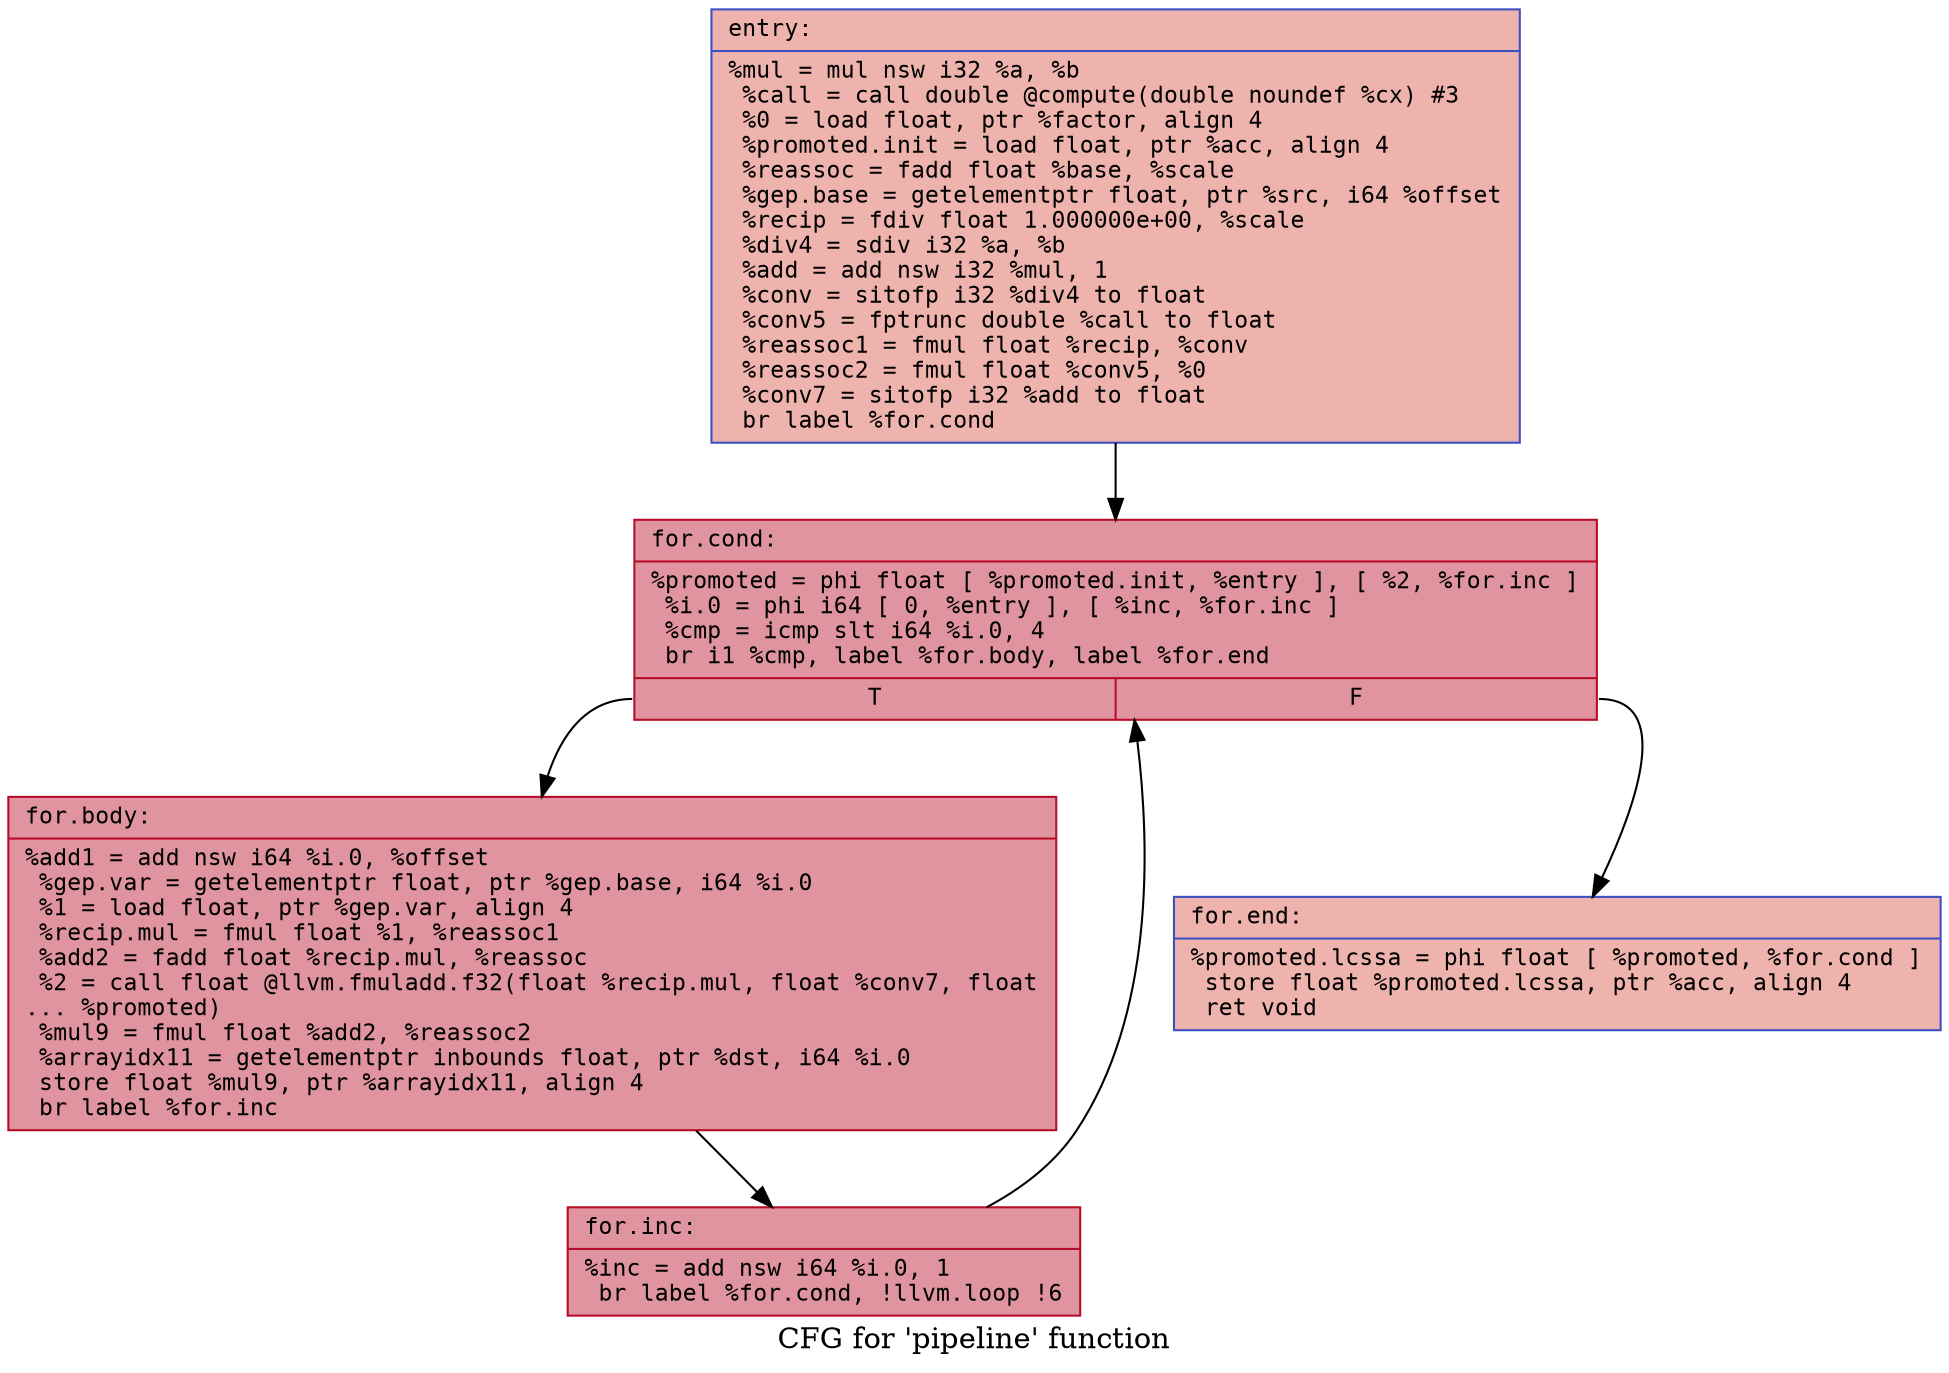
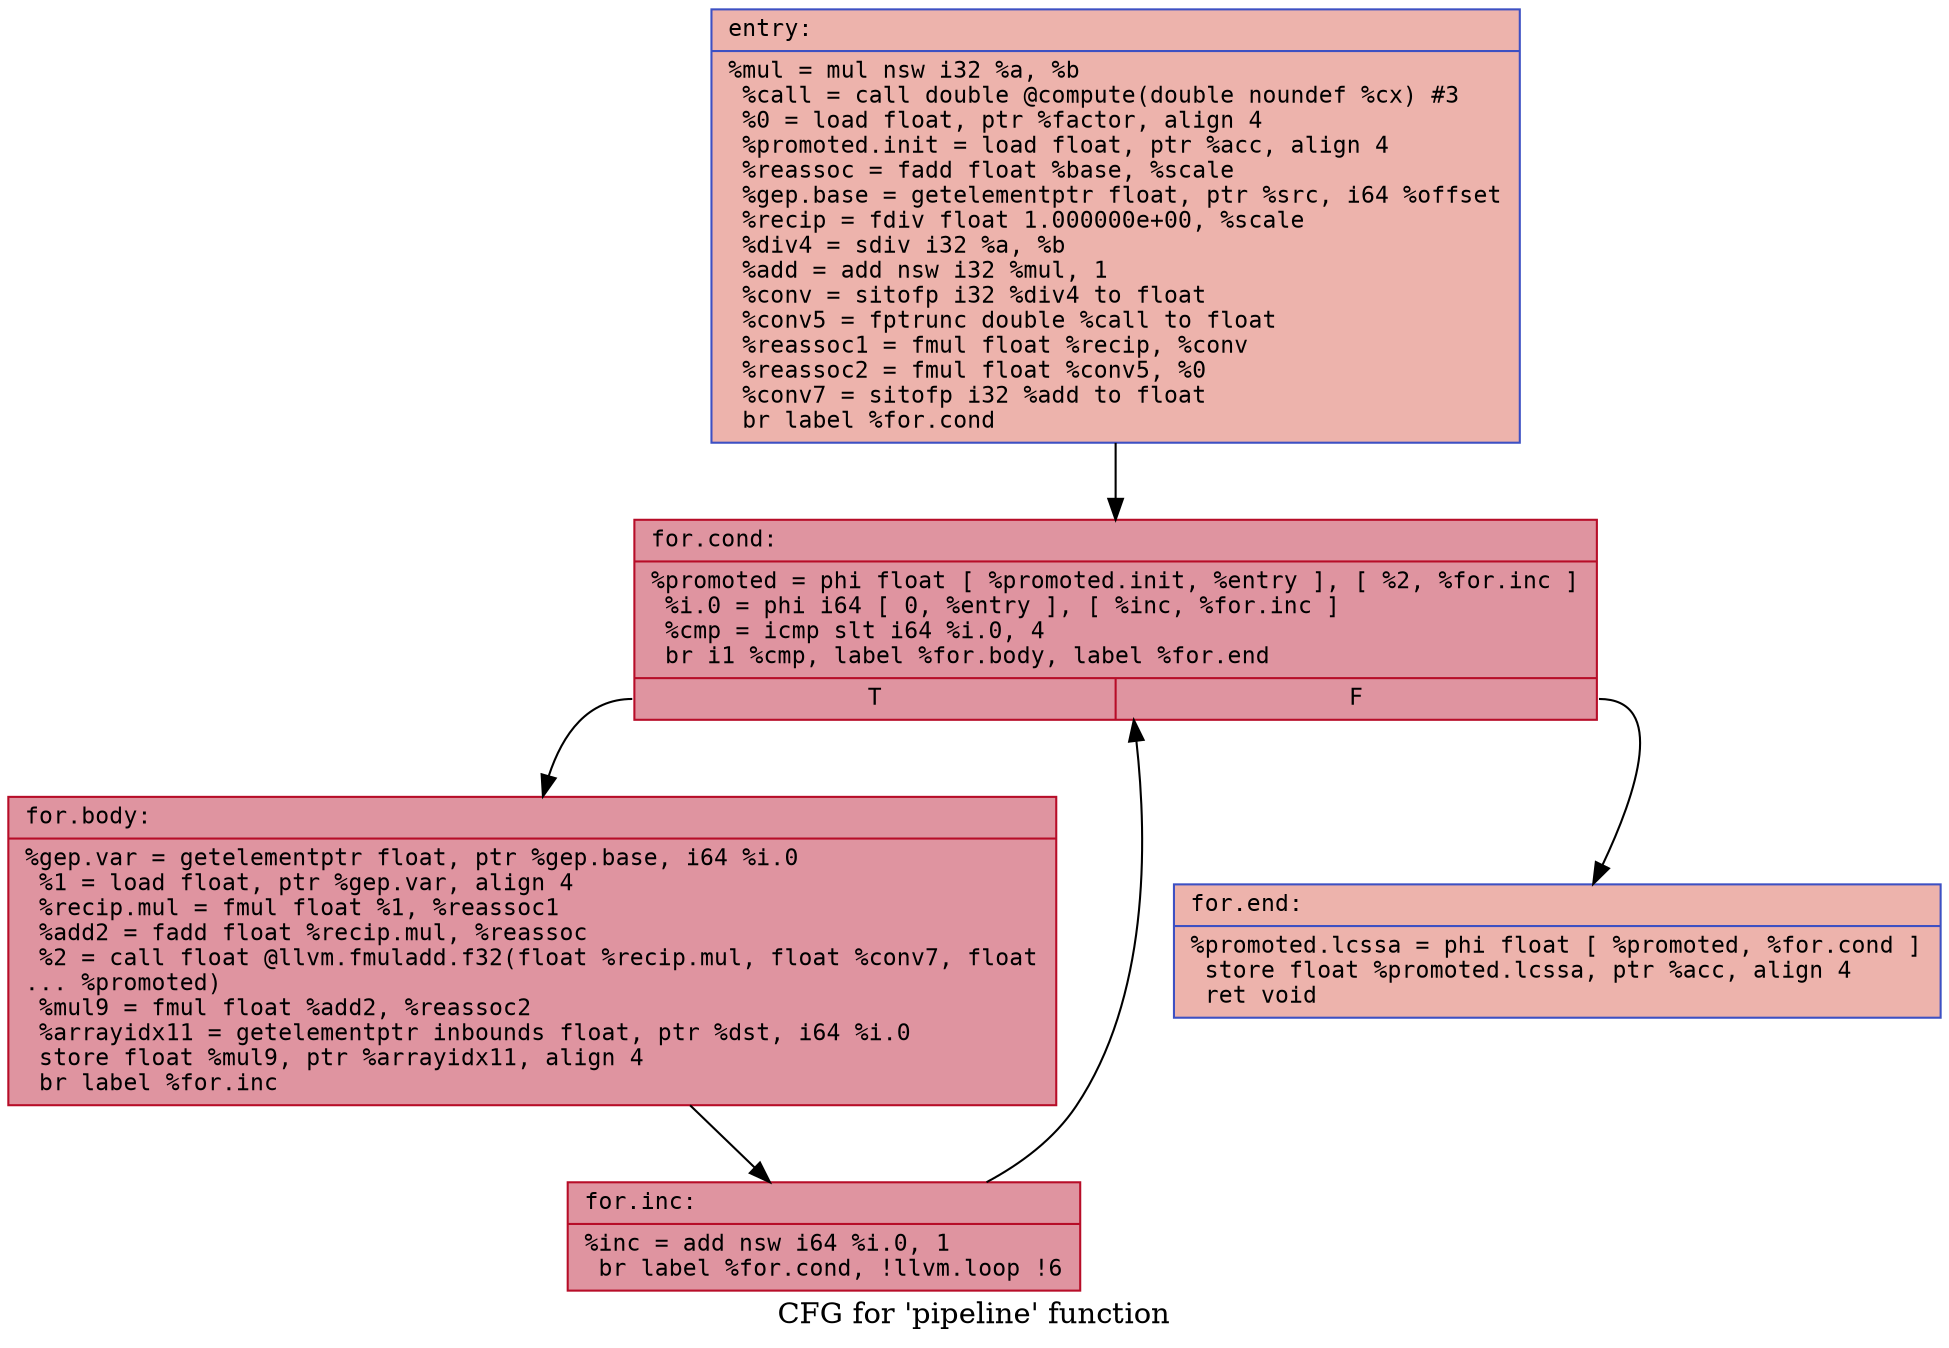
feat(licm): add regenerated examples after the fixes

diff --git a/README.md b/README.md
@@ -31,7 +31,7 @@ transformation fires; hoisting can expose new invariants each pass.
 | **Statistics + debug** - pass statistics and debug logging                                            | - |
 
 `*` LLVM covers do-while via dominator-based execution guarantees; the zero-trip
-path blocks that for for/while. SE proving TC > 0 guarantees the first
+path blocks that for for/while loops. SE proving TC > 0 guarantees the first
 iteration; every path from header to latch through BB guarantees no iteration
 skips it - covers the case LLVM conservatively skips.
 
